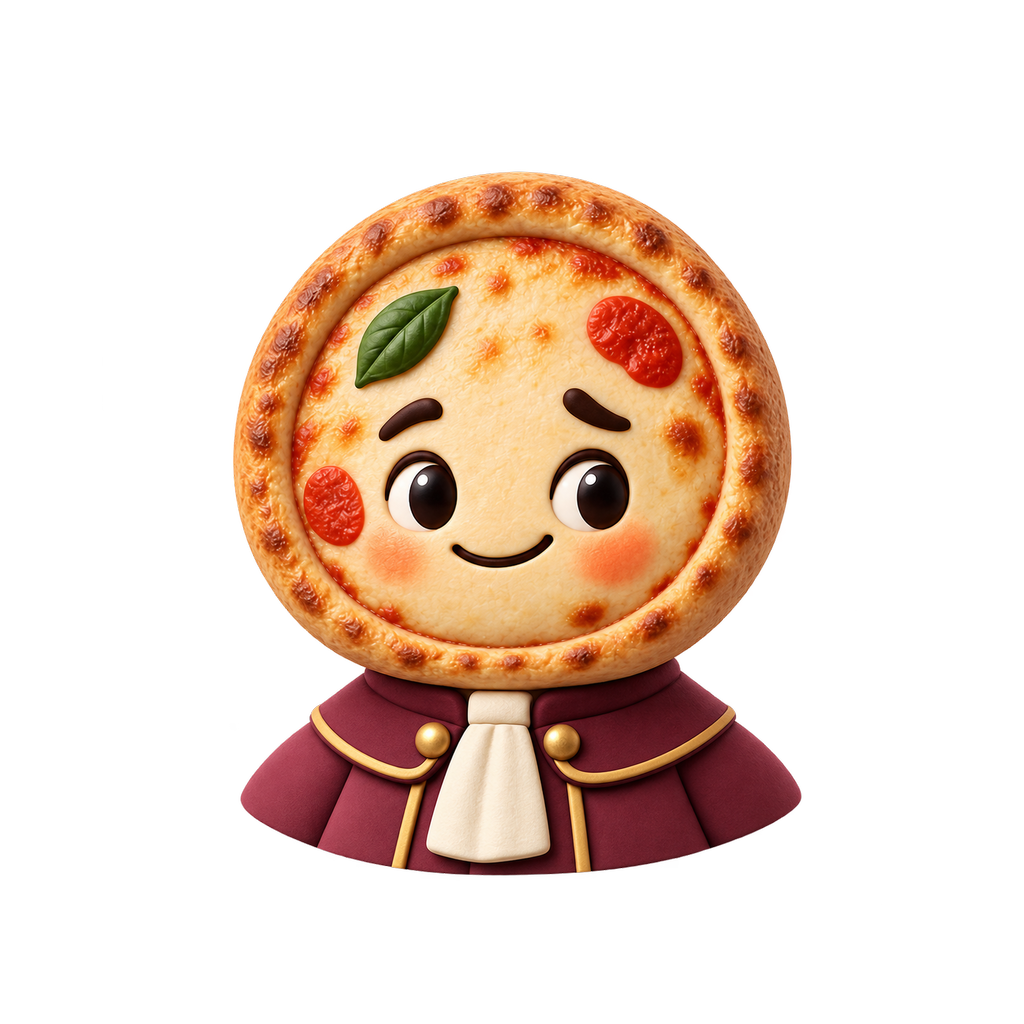
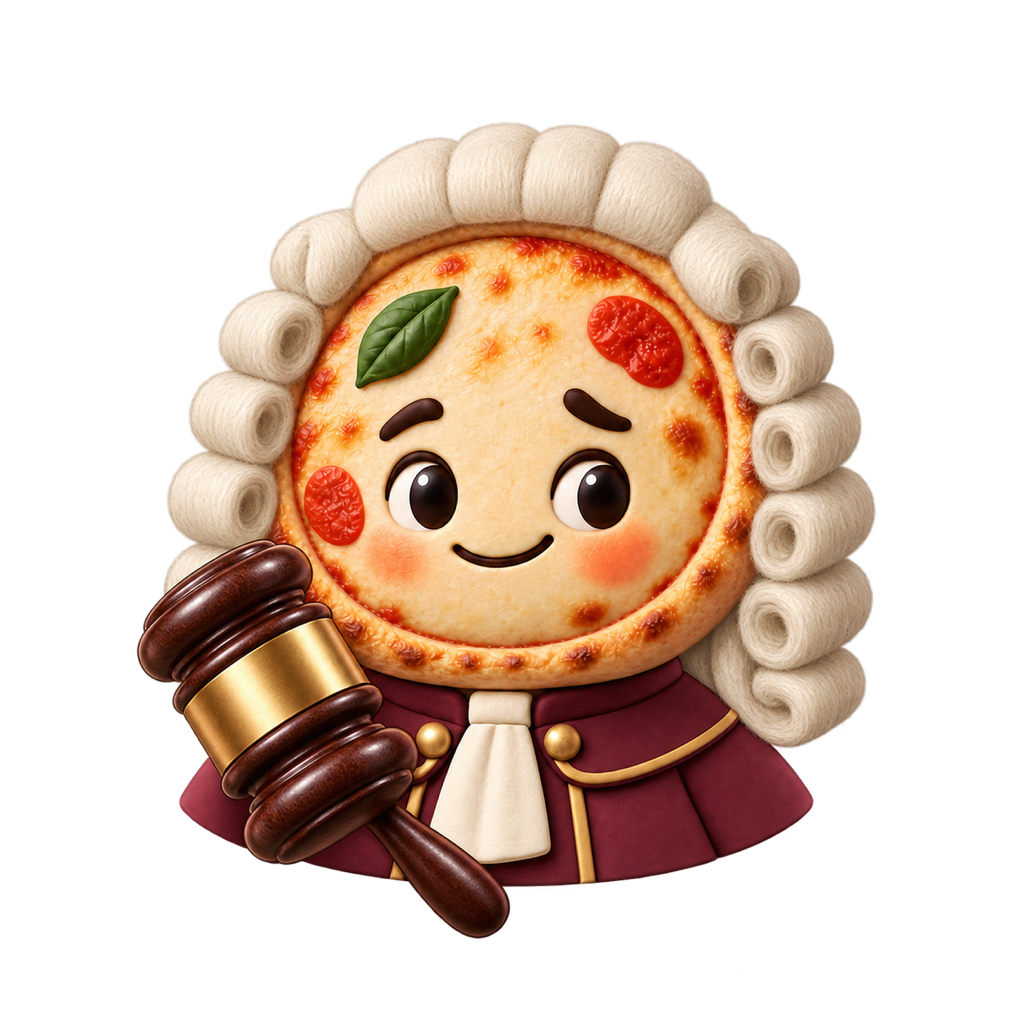
feat(artwork): add judge wig and prominent gavel

diff --git a/docs/implementation-tasks.md b/docs/implementation-tasks.md
@@ -122,8 +122,9 @@ Status legend: ⬜ not started · 🟦 in progress · ✅ closed green · 🟥 b
 | D93 | Deleting local data clears `AppRootView`'s within-session `didFinish` latch, through an `onLocalDataErased` closure passed down from `AppRootView` → `MainTabView` → `TodayFlowView` → `SettingsView`. | Without it, someone who onboards and deletes in the same session keeps the latch `true` and stays in the tab bar with no profile behind it. What this does **not** prove is whether `@Query` re-reads after `PersistenceActor`'s separate `ModelContext` deleted the record — the open question `AppRootView` has carried since WU-19-D. Recorded as a device check for WU-25-A rather than claimed. |
 | D94 | D34's sentence "production Presentation code may not name `AppDependencies`" is narrowed to what has actually been enforced since WU-19-D: **no ViewModel initializer may name it**. The composition-root View chain — `AppRootView` (App layer) and `MainTabView` (Presentation) — may, because each has to build and hold child view models in `@State` so navigation paths and in-progress stages survive a re-render. | Raised by `arc-constitution-review` on WU-24-B.2 as a MAJOR: `MainTabView.init(dependencies:)` literally contradicts D34 as written, and an earlier audit treated the same pattern as a blocker on `OnboardingViewModel`. The pattern predates this unit, which only extended the existing signature. Two ways out: reword the rule, or route dependencies to `MainTabView` through something that is not the type — the second buys nothing but a wrapper with the same fields, two days from feature freeze. What the rule is *for* is keeping App-layer assembly out of view models, and that still holds: `SettingsViewModel`, like every other, takes four narrow Domain protocols. The user may overturn this in favour of the code change. |
 | D80 | `SavedRevision.attachingNarration(_:)` is a new value-copy helper on the entity, rather than each caller rebuilding the struct field by field. | `SavedRevision` is let-only on purpose, so a caller holding one replaces it. Three call sites needed that copy (`PersistenceActor`, `PreviewCaseStore`, the narration test fixture); one shared helper means no call site can silently drop a field while rebuilding one by hand — the same reasoning as D63/D70/D71, applied to a value type. |
-| D95 | Final art uses an Apple Icon Composer project (`AppIcon.icon`) for the app icon and named 1×/2×/3× PNG image sets under `Assets.xcassets/Artwork` for in-app judge and dish art. | This keeps the icon editable by Apple's current tool and lets Xcode compile only the device-appropriate in-app scales. The committed PNG payload is 5,896,736 bytes for the 36 in-app renditions plus 805,419 bytes for the Icon Composer source image; the editable commission brief and generation provenance stay in `docs/artwork-brief.md` and `docs/artwork-manifest.md`. |
+| D95 | Final art uses an Apple Icon Composer project (`AppIcon.icon`) for the app icon and named 1×/2×/3× PNG image sets under `Assets.xcassets/Artwork` for in-app judge and dish art. | This keeps the icon editable by Apple's current tool and lets Xcode compile only the device-appropriate in-app scales. After the D97 character revision, the committed PNG payload is 6,106,620 bytes for the 36 in-app renditions plus 1,080,744 bytes for the Icon Composer source image; the editable commission brief and generation provenance stay in `docs/artwork-brief.md` and `docs/artwork-manifest.md`. |
 | D96 | Loading is one reusable `CourtLoadingView` backed by native indeterminate `ProgressView`: it replaces the app while the persistent store opens and overlays Today only during `.evaluating`. Launch yields one task turn so the first frame can render, but adds no artificial minimum duration. | Both waits now report real work instead of displaying a decorative delay. While a verdict is being prepared, the covered form is disabled and hidden from accessibility so users and VoiceOver have one active status; the system owns progress animation and Reduce Motion behavior. |
+| D97 | The final judge identity adds a restrained ivory judicial wig and promotes the dark-walnut gavel to a large, high-contrast foreground cue in the app icon and all three poses. | The robe alone did not make the judicial role unmistakable at small sizes, and the former tiny lowered gavel disappeared in the in-app silhouette. The wig frames rather than covers the pizza, while the enlarged gavel uses one restrained gold band so the character remains in the established burgundy/gold system without becoming ornate. |
 
 ---
 
@@ -1305,13 +1306,16 @@ verdict-engine behavior changed.
 **What shipped.**
 
 - `Resources/AppIcon.icon` is the editable Apple Icon Composer source used by Xcode. Its
-  1024×1024 judge source is 805,419 bytes; the icon remains layered and tint-ready rather than
+  1024×1024 judge source is 1,080,744 bytes; the icon remains layered and tint-ready rather than
   being flattened into a legacy `AppIcon.appiconset`.
 - `Resources/Assets.xcassets/Artwork` contains three judge poses (`JudgeWelcome`,
   `JudgeVerdict`, `JudgeAppeal`) and nine dish families (`DishBurger`, `DishLentilSalad`,
   `DishPasta`, `DishPizza`, `DishRiceBowl`, `DishTacos`, `DishTortilla`,
   `DishVegetableSoup`, `DishVegetableWrap`). Xcode receives explicit 1×/2×/3× PNGs, totalling
-  5,896,736 bytes, so it can compile the scale needed by each device while preserving quality.
+  6,106,620 bytes, so it can compile the scale needed by each device while preserving quality.
+- The D97 character revision adds the ivory judicial wig and a prominent gavel to the icon and
+  every pose while preserving each pose's expression, gesture, transparent background and
+  1×/2×/3× dimensions.
 - `JudgeBadgeView` now accepts the appropriate named image resource at welcome, Today, verdict
   and appeal surfaces. `DishArtworkView` maps every catalogue family to its named asset and
   replaces `DishArtPlaceholderView` in the verdict, alternative, appeal and history summaries.
@@ -1326,6 +1330,9 @@ verdict-engine behavior changed.
 were checked at the default size, Small/dark, and AX 5 in Spanish, including both loading messages,
 with no clipping or competing controls. Artwork and loading landed as atomic commits:
 `abd803e`, `192989d`, `3c39d68`, `2b40a3b`, and `c72fe25` (the preceding brief is `97122ed`).
+After D97, the Xcode 27 build and all **260/260 tests** passed again with zero warnings; Spanish
+previews of Welcome, loading and Appeal confirmed the wig and gavel remain legible at the real
+76-point placements. All ten replaced PNG renditions retained alpha and their declared dimensions.
 
 **Next.** WU-24-B.3 — demonstration mode; then WU-25-A verification.
 

diff --git a/docs/artwork-manifest.md b/docs/artwork-manifest.md
@@ -486,3 +486,48 @@ Preferred modern integration:
 
 Keeping masters and review sheets outside the target prevents the 2048-pixel
 production sources from increasing the application bundle.
+
+## 2026-09-24 character revision — judicial wig and prominent gavel
+
+The user approved one controlled identity revision after the original handoff: add a restrained
+ivory judicial wig that frames the pizza, and make the gavel unmistakable at app-icon and in-app
+sizes. This section supersedes the earlier prompts' `wig` prohibition and `tiny`/`lowered` gavel
+direction; those prompts remain above as historical provenance for the original generation.
+
+All four revisions used the built-in image editor in `precise-object-edit` mode. Every output was
+generated as a transparent 1254×1254 PNG, then mechanically resized for the checked-in target:
+1024×1024 for Icon Composer and 600/400/200 pixels for the 3×/2×/1× asset-catalogue renditions.
+
+| Target | Built-in output | SHA-256 |
+|---|---|---|
[4 lines of base64/hex data omitted]
+
+Shared edit prompt:
+
+> Preserve the existing Foodge mascot exactly: round pizza face with the same crust, toppings,
+> facial features, expression, proportions, burgundy judicial robe, gold piping, cream neck tab,
+> soft polished 3D illustration style, lighting, camera angle, and transparent background. Add a
+> restrained traditional ivory/off-white judge wig that frames the pizza with recognizable side
+> curls and a modest top/back section; keep the entire face, toppings, and most of the crust
+> unobstructed. Make the wooden judge's gavel 20–30% larger, clearly readable, and visually
+> separated from the burgundy robe, with rich dark wood and a subtle gold band. Do not add text,
+> symbols, scenery, extra props, extra limbs, or a background. Keep generous transparent padding
+> and a clean silhouette.
+
+Composition-specific instructions:
+
+- **App icon**: preserve the close bust; introduce one enlarged gavel diagonally in the lower
+  foreground without covering the face or neck tab, readable at small icon sizes.
+- **Welcome**: preserve the wave, full-body pose and expression; move the enlarged gavel upward
+  and outward while keeping the waving hand unchanged.
+- **Verdict**: preserve the composed expression and hand-behind-back pose; raise the gavel toward
+  shoulder height on the same side.
+- **Appeal**: preserve the thoughtful expression and chin-touching gesture; raise the gavel
+  slightly and angle it outward without competing with that gesture.
+
+Validation after resizing: every file retains alpha; the app icon is exactly 1024×1024; each pose
+ships at exactly 200×200, 400×400 and 600×600. The total checked-in PNG payload is 6,106,620 bytes
+for all 36 in-app artwork renditions plus 1,080,744 bytes for the Icon Composer foreground.

diff --git a/docs/artwork-brief.md b/docs/artwork-brief.md
@@ -79,8 +79,10 @@ Rules:
 
 A small **anthropomorphic food judge**: a friendly, dignified character with a food-derived head
 (your design call — it must be plausibly food, warm, and never a specific branded item), wearing
-a minimal courtroom cue in **burgundy** with **gold** trim (a small robe collar and/or a tiny
-gavel). Proportions: large head, small body, stable stance — a chess-piece-like silhouette.
+a minimal courtroom cue in **burgundy** with **gold** trim. The approved character is pizza-headed;
+a restrained ivory judicial wig frames the pizza without covering the face, toppings or most of
+the crust. A prominent dark-walnut gavel with one gold band must stay legible at small sizes.
+Proportions: large head, small body, stable stance — a chess-piece-like silhouette.
 Expression is **kind and amused**, never stern, never smug, never disappointed.
 
 The same character, same construction, same materials in all three poses:
@@ -88,8 +90,8 @@ The same character, same construction, same materials in all three poses:
 | Asset | Pose | Used on |
 |---|---|---|
 | `JudgeWelcome` | Greeting — open, welcoming gesture, slight bow or raised hand | Welcome screen, first launch |
-| `JudgeVerdict` | Delivering the ruling — gavel just tapped, confident, pleased | Today screen + the verdict/category header |
-| `JudgeAppeal` | Considering an appeal — thoughtful, hand to chin, one eyebrow up, amused | Appeal sheet |
+| `JudgeVerdict` | Delivering the ruling — gavel raised clearly, confident, pleased | Today screen + the verdict/category header |
+| `JudgeAppeal` | Considering an appeal — thoughtful, hand to chin, one eyebrow up, amused; gavel visible | Appeal sheet |
 
 Each pose must be recognisable as the **same** judge at 76 pt. Deliver a character-sheet
 contact image too (§8) so consistency can be checked at a glance.

diff --git a/DESIGN.md b/DESIGN.md
@@ -51,7 +51,8 @@ Warm, playful casefile identity in the ARC Labs / FavRes family, with original F
 - **Brand accents**: burgundy and gold, from the asset catalogue. Gold is an accent, never assumed
   to be accessible as text colour — contrast is verified per use.
 - **Surfaces**: native system backgrounds and semantic text colours throughout. No custom greys.
-- **Judge**: a small, sculpted anthropomorphic food judge, three poses. Clearly distinct from FavRes.
+- **Judge**: a small, sculpted pizza-headed judge with a restrained ivory judicial wig and a
+  prominent dark-walnut gavel, in three poses. Clearly distinct from FavRes.
 - **Dishes**: nine sculpted illustrations, one per dish family, sharing lighting, materials, camera
   angle and proportions. No text inside any image. Generation provenance is preserved.
 - **Type**: SF system typography through semantic styles only — `.system(size:)` is never written.
